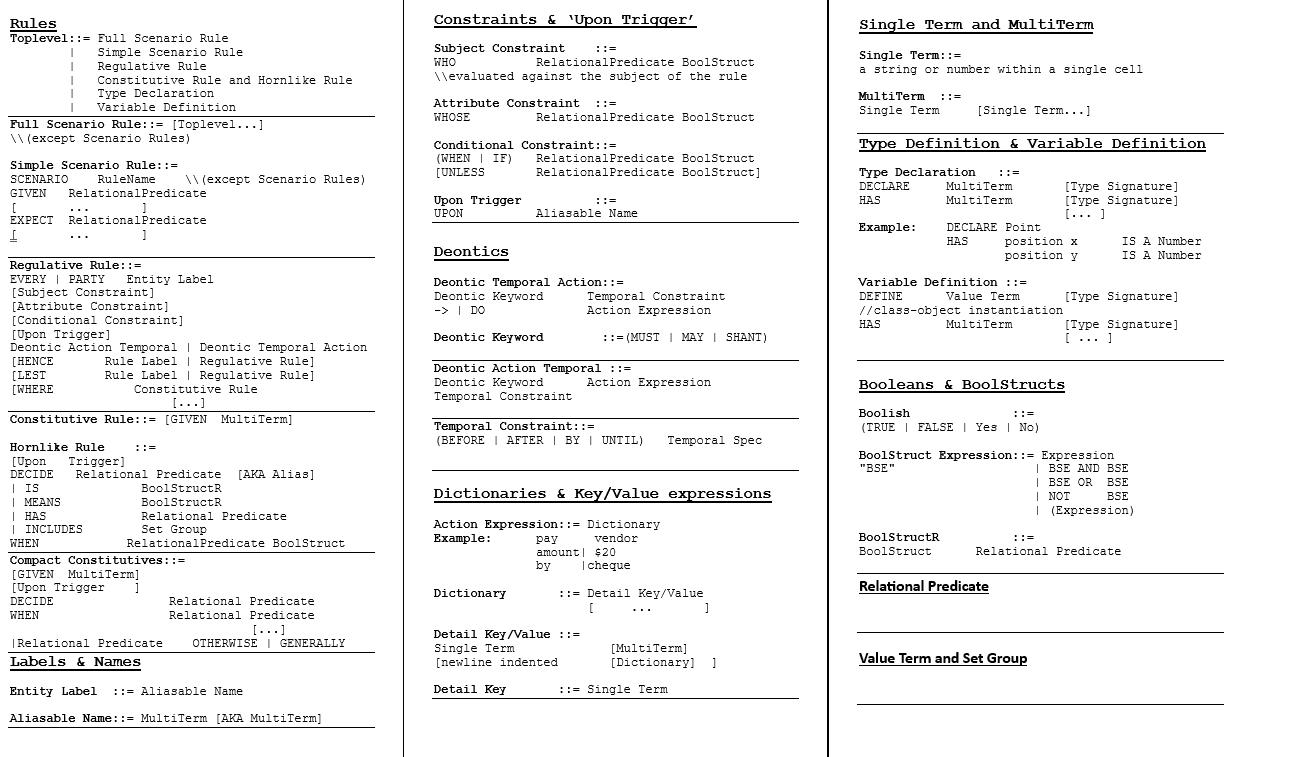
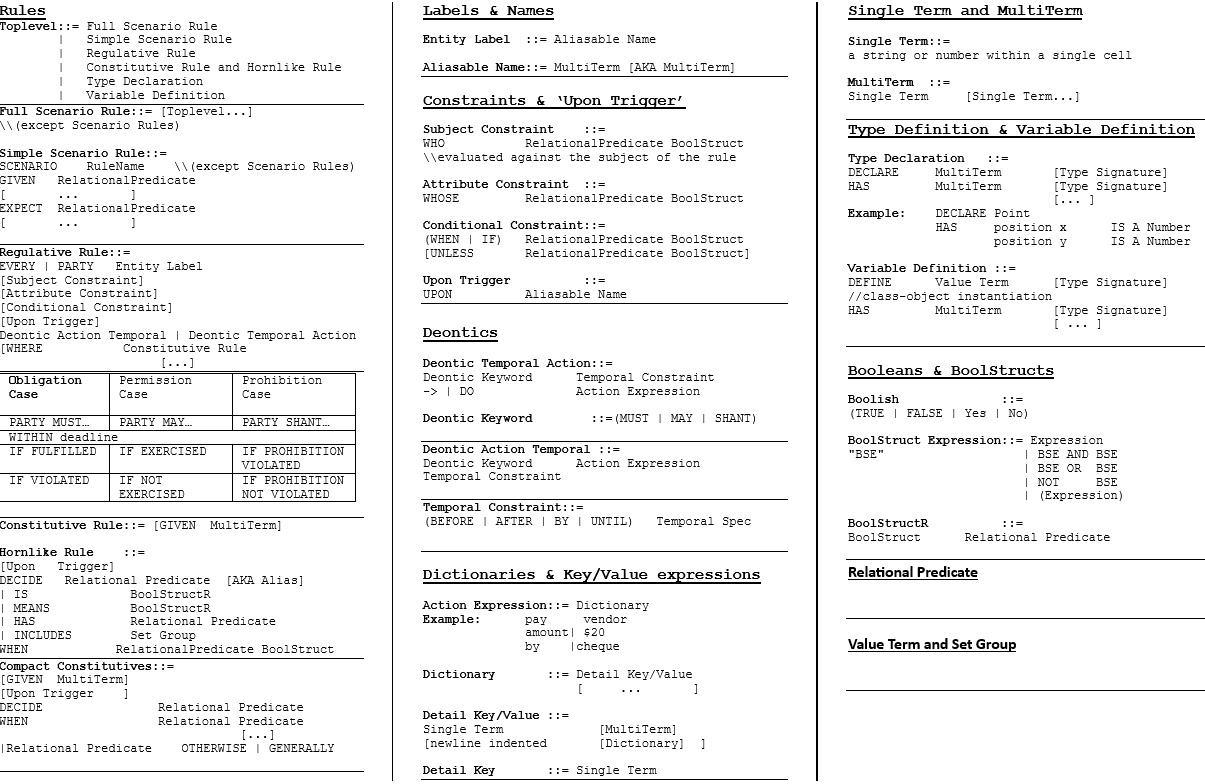
Updated cheatsheet, created transpilers page

diff --git a/docs/returning-cheatsheet.rst b/docs/returning-cheatsheet.rst
@@ -2,8 +2,6 @@
 Cheatsheet
 ==========
 
-Below is an overview of the L4 cheatsheet.
-
 .. image:: ../images/l4-cheatsheet.png
     :class: with-border
 
@@ -77,9 +75,9 @@ Simple Scenario Rule
 				EXPECT  RelationalPredicate													
 					[       ...       ]			
 
-~~~~~~~~~~~~~~~
-Regulative Rule
-~~~~~~~~~~~~~~~
+~~~~~~~~~~~~~~~~~~~~~~~~~~~~~
+Regulative Rule: EVERY, WHERE
+~~~~~~~~~~~~~~~~~~~~~~~~~~~~~
 
 .. code-block:: bnf
 
@@ -89,10 +87,33 @@ Regulative Rule
 					[Conditional Constraint]						
 					[Upon Trigger]						
 					    Deontic Action Temporal | Deontic Temporal Action					
-					[HENCE	         Rule Label | Regulative Rule]
-					[LEST	         Rule Label | Regulative Rule]
 					[WHERE	         Constitutive Rule						
 							        [...]				]
+
+^^^^^^^^^^^^^^^^^^^^^^^^^^^^^^^^^^^^^^
+Regulative Rules: MUST, MAY, and SHANT
+^^^^^^^^^^^^^^^^^^^^^^^^^^^^^^^^^^^^^^
+
+.. code-block:: bnf
+
+    Obligation Case ::= PARTY     MUST               ...
+                        WITHIN    deadline
+                        IF FULFILLED                 ...
+                        IF VIOLATED                  ...
+    
+    Permission Case ::= PARTY     MAY                ...
+                        WITHIN    deadline
+                        IF EXERCISED                 ...
+                        IF NOT EXERCISED             ...
+
+    Prohibition Case ::= PARTY    SHANT              ...
+                         WITHIN   deadline
+                         IF PROHIBITION VIOLATED     ...
+                         IF PROHIBITION NOT VIOLATED ...
+
+.. Old Syntax: HENCE/LEST, replaced by MUST, MAY, and SHANT
+                    [HENCE	         Rule Label | Regulative Rule]
+					[LEST	         Rule Label | Regulative Rule]
 
 ~~~~~~~~~~~~~~~~~~~~~~~~~~~~~~~~~~~
 Constitutive Rule and Hornlike Rule

diff --git a/docs/returning-transpilers.rst b/docs/returning-transpilers.rst
@@ -1,0 +1,74 @@
+=========================================
+Using L4 Output In Other Language Formats
+=========================================
+
+L4 output can be transpiled ('translated') into other languages, both programming and non-programming languages.
+
+You can choose the language to transpile L4 output to through the sidebar.
+
+Scroll down the sidebar until you see point 4: "Export data elemetns as JSON". This is the beginning of the list of languages L4 output will eventually be able to transpile to.
+
+Only the export links highlighted in blue are currently available.
+
+Refer to the image below for reference as to what you should see in the sidebar.
+
+.. image:: ../images/l4-transpiler-output.png
+    :class: with-border
+    :width: 225px
+
+-------------------
+Available Languages
+-------------------
+
+    - JSON
+
+    - Epilog
+
+    - Purescript
+
+    - CoreL4
+
+    - Haskell
+
+    - Org-mode
+
+    - Typescript
+
+    - Markdown
+
+    - Maude
+
+      - Plaintext Maude
+      - Visualisation of state space
+      - Visualisation of race condition trace (if any)
+
+---------------------------
+Languages Not Yet Available
+---------------------------
+
+    - Prolog
+
+    - Logical English
+
+    - Catala
+
+    - DMN decision diagram
+
+    - DocAssemble
+
+    - CheckFirst
+
+    - Blawx
+
+    - Morphir
+
+    - Word Doc (Word Document)
+
+    - PDF
+
+    - Akoma Ntoso
+
+    - BPMN workflow
+
+    - Tapaal Petri Net
+

diff --git a/docs/links-law-and-computer-science.rst b/docs/links-law-and-computer-science.rst
@@ -6,7 +6,7 @@ Motivations: Law and Computer Science
 |
 |
 
-.. grid:: 3
+.. grid:: 2
 
     .. grid-item-card:: L4 and Computational Law
         :link: returning-computational-law
@@ -20,19 +20,13 @@ Motivations: Law and Computer Science
 
         Learn how L4 approaches problems in the Law.
 
+.. grid:: 2
+
     .. grid-item-card:: Flowcharts and Software Engineering
         :link: returning-flowchart
         :link-type: doc
 
         Understand why the Law would benefit from enhanced flowcharts. 
-
-.. grid:: 2
-
-    .. grid-item-card:: Law and Logic programming
-        :link: returning-law-logic-programming
-        :link-type: doc
-
-        Explore the relationship between Law and Logic Programming.
 
     .. grid-item-card:: Computer Science terms in L4
         :link: returning-common-expressions
@@ -40,8 +34,17 @@ Motivations: Law and Computer Science
 
         Find out how common technical terms are used in L4.
 
+..
+    .. grid-item-card:: Law and Logic programming
+    :link: returning-law-logic-programming
+    :link-type: doc
+
+    Explore the relationship between Law and Logic Programming.
+    (Removed because the page has too much information and is not helpful)
+
 ===========================================
 Law and Computer Science: Intended Audience
 ===========================================
 
 This section is tailored towards lawyers and computer scientists, both students and practitioners.
+

diff --git a/index.rst b/index.rst
@@ -61,6 +61,7 @@ You can navigate this document by:
    docs/returning-exercises.rst
    docs/returning-cheatsheet.rst
    docs/returning-keywords.rst
+   docs/returning-transpilers.rst
    docs/returning-L4-and-law.rst
    docs/links-examples
    Publications <https://cclaw.smu.edu.sg/projects-papers>
@@ -80,18 +81,6 @@ You can navigate this document by:
    docs/returning-examples-pdpa-dbno.rst
    docs/returning-examples-motor-insurance.rst
    docs/returning-examples-contract-automaton.rst
-
-.. toctree::
-   :maxdepth: 1
-   :caption: Law and Computer Science
-   :titlesonly:
-   :hidden:
-
-   docs/links-law-and-computer-science.rst
-   docs/returning-law-logic-programming.rst
-   docs/returning-flowchart.rst
-   docs/returning-common-expressions.rst
-   docs/returning-computational-law.rst
 
 .. toctree::
    :maxdepth: 1
@@ -115,3 +104,18 @@ You can navigate this document by:
    docs/about-and-contact.rst
    docs/early-beta.rst
    docs/acknowledgements.rst
+
+.. 
+   .. toctree::
+   :maxdepth: 1
+   :caption: Law and Computer Science
+   :titlesonly:
+   :hidden:
+
+   docs/links-law-and-computer-science.rst
+   docs/returning-law-logic-programming.rst
+   docs/returning-flowchart.rst
+   docs/returning-common-expressions.rst
+   docs/returning-computational-law.rst
+
+   (Nemo: I am removing this entire section because it does not contribute to the user's end goal of formalising a contract with L4.)

diff --git a/docs/links-returning-users.rst b/docs/links-returning-users.rst
@@ -8,7 +8,7 @@ Returning Users
 |
 |
 
-.. grid:: 3
+.. grid:: 4
 
     .. grid-item-card:: L4 in Practice
         :link: returning-exercises
@@ -27,6 +27,12 @@ Returning Users
         :link-type: doc
 
         Explore some of L4's important keywords.
+
+    .. grid-item-card:: Export L4 Output
+        :link: returning-keywords
+        :link-type: doc
+
+        Export L4 output into other languages.
 
 .. grid:: 4
 
